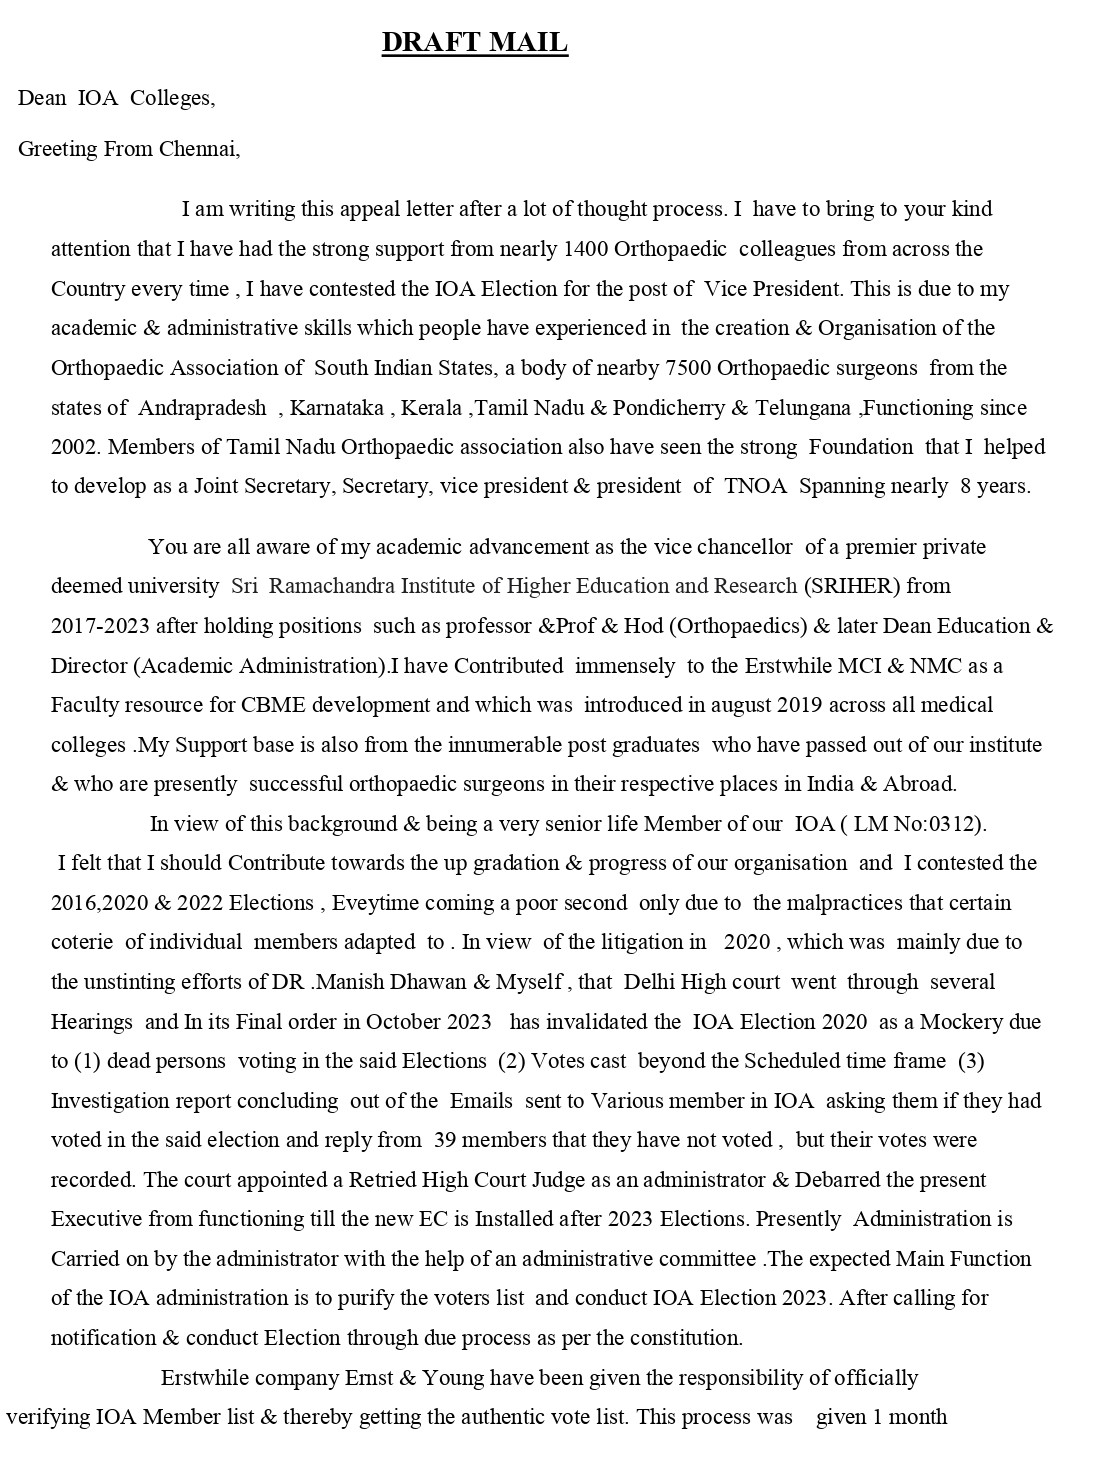
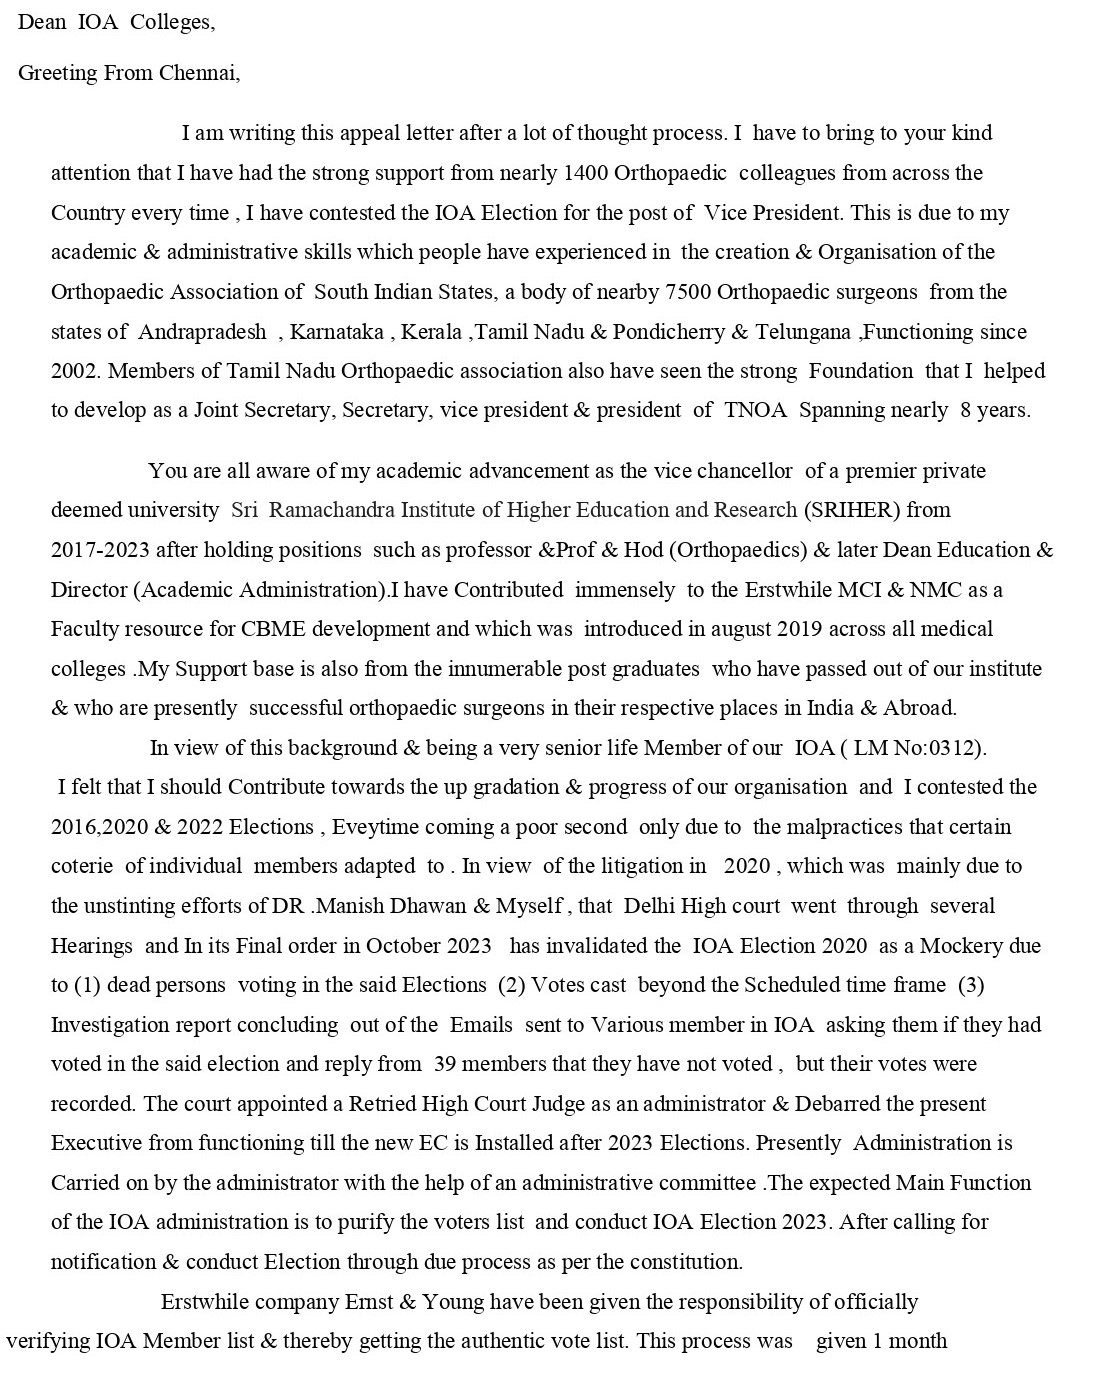
Email Marketing Template

Changed region(s): [[0.0, 0.0, 0.9608, 0.9864], [0.3409, 0.0, 0.5269, 0.0616]]

diff --git a/EmailTemplate/index.html b/EmailTemplate/index.html
@@ -66,7 +66,7 @@
     <!-- =============== Header Ended ============= -->
     
     <!-- =============== Body Started ============= -->
-    <tr class="content" >
+    <!-- <tr class="content" >
         <td colspan="2" style="padding:0 20px;">
             <h2 style="text-align: center;">Dean IOA Colleges</h2>
             <h2 style="text-align: center;">Greeting From Chennai,</h2>
@@ -80,6 +80,13 @@
             time & has been extended. Only about 6000 members out of a possible 15000 have been verified so for & we are still awaiting the formal announcement calling for nomination of IOA Election 2023. <br>
             My Earnest request to all eligible voters to consider my genuine role in the cleanup of IOA through our litigation in Delhi High court & provide me your full support for the post of vice president for the year 2023 as and when Election 2023 are notified. <br>
            </p>
+        </td>
+    </tr> -->
+
+    <tr>
+        <td colspan="2" style="padding:  0 10px;">
+            <img src="https://github.com/techiedharam/Dr.Vijayaraghavan/blob/master/EmailTemplate/Images/DRAFT_MAIL1.jpg?raw=true" alt="" width="100%">
+            <img src="https://github.com/techiedharam/Dr.Vijayaraghavan/blob/master/EmailTemplate/Images/DRAFT_MAIL2.jpg?raw=true" alt="" width="100%">
         </td>
     </tr>
     
